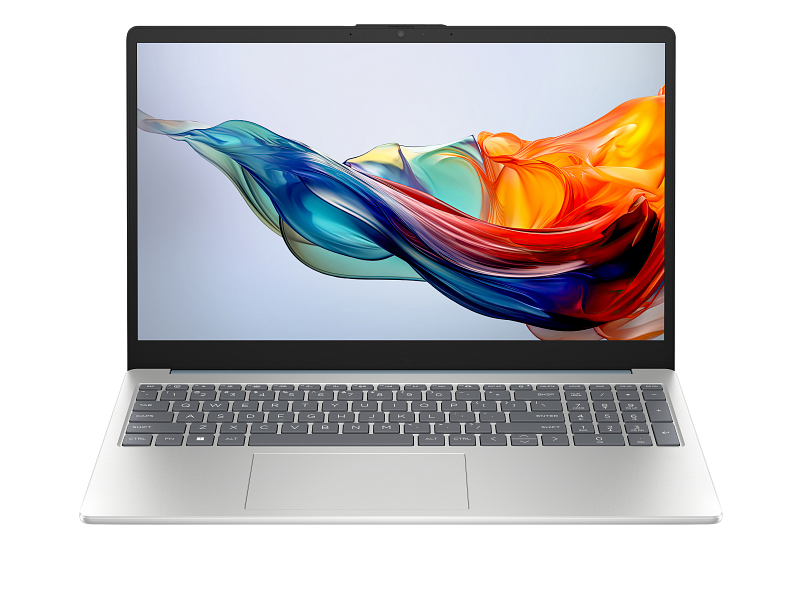
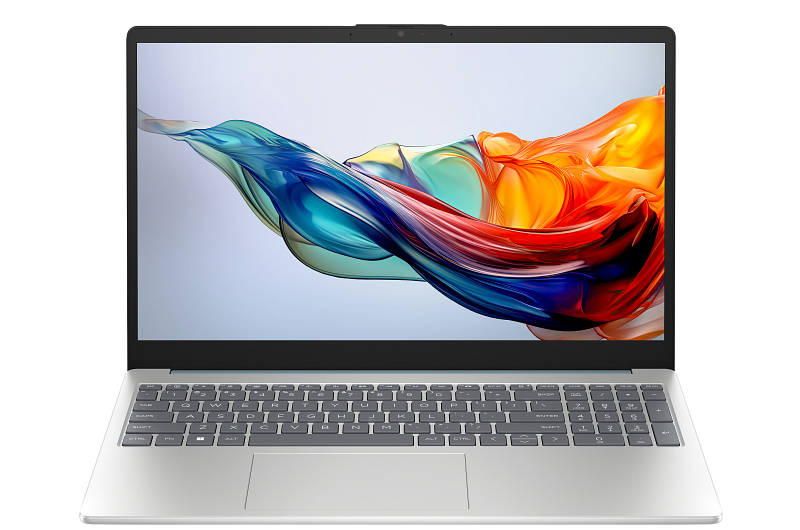
Nueva Pagina Tienda

diff --git a/style-tienda.css b/style-tienda.css
@@ -1,0 +1,215 @@
+.HeaderStyle {
+    background-color: rgba(0, 0, 0, 0.623);
+    width: 100%;
+    height: 90px;
+    border-bottom: 1px black;
+    padding: 1px;
+    padding-right: 15px;
+    margin-top: -8px;
+    margin-left: -8px;
+    box-shadow: 0 0 15px black;
+    position: fixed;
+    display: inline-flex;
+    z-index: 2;
+    border-bottom: 0.1px solid rgba(255, 255, 255, 0.315);
+}
+
+.Blur-Background-Effect {
+    background-color: rgba(0, 0, 0, 0);
+    backdrop-filter: blur(16px);
+    z-index: 1;
+    position: fixed;
+    width: 100%;
+    height: 90px;
+    padding: 1px;
+    padding-right: 15px;
+    margin-top: -8px;
+    margin-left: -8px;
+}
+
+.TitleStyle {
+    color: white;
+    font-family: "Major Mono Display", sans-serif;
+    margin-left: 120px;
+    margin-top: 30px;
+    font-size: 40px;
+    display: inline-flex;
+}
+
+#HRvertical {
+    width: 40px;
+    height: 60px;
+    margin-left: 50px;
+    position: relative;
+    display: inline-flex;
+}
+
+#PAPERstyle {
+    background-color: white;
+    height: 40px;
+    color: black;
+    border-bottom-left-radius: 14px;
+    border-top-left-radius: 14px;
+    border-left: 5px solid white;
+}
+
+.LINKBUTTONstyle {
+    background-color: white;
+    color: black;
+    width: 107px;
+    height: 30px;
+    padding: 10px;
+    border: 1px solid black;
+    outline: 5px solid white;
+    text-align: center;
+    font-size: 25px;
+    font-family: "Zalando Sans Expanded", sans-serif;
+    text-decoration: none;
+    cursor: pointer;
+    margin-top: 22px;
+    margin-left: 50px;
+    padding-left: 22px;
+    transition: ease 0.12s, font-weight 0.26s, outline-width 0.02s;
+    display: inline-flex;
+    scale: calc(0.7);
+}
+
+.LINKBUTTONstyle:hover {
+    outline-width: 11px;
+    outline-style: double;
+    color: white;
+    background-color: black;
+    border-radius: 2px;
+}
+
+.LINKBUTTONstyle:active {
+    background-color: white;
+    color: black;
+    outline-width: 2px;
+}
+
+#body {
+    background-color: #f5f5f5;
+    font-family: Arial, Helvetica, sans-serif;
+    color: black;
+}
+
+#line-style-top {
+    width: 2px;
+    height: 52px;
+    position: absolute;
+    background-color: white;
+    margin-top: 22px;
+    margin-left: 18px;
+}
+
+#icongithub {
+    margin-left: 40px;
+    margin-top: 35px;
+    position: absolute;
+}
+
+.AIRE {
+    width: 100%;
+    height: 83px;
+    padding: 1px;
+    padding-right: 15px;
+    margin-top: -8px;
+    margin-left: -8px;
+}
+
+.title-se-top {
+    font-family: "Cal Sans", sans-serif;
+    letter-spacing: 2px;
+    font-size: 45px;
+    text-align: center;
+    width: 100%;
+    height: 40px;
+    margin-bottom: 40px;
+}
+
+.Box-Producto {
+    background-color: white;
+    width: 50%;
+    height: 940px;
+    margin: 30px;
+    cursor: pointer;
+    transition: all 0.22s ease-in-out;
+}
+
+.Box-Producto:hover {
+    scale: calc(0.98);
+}
+
+.image-producto {
+    background-image: linear-gradient(-52deg, #011f33, #e6e6e6);
+    border-radius: 20px;
+    box-shadow: 0 0 16px rgba(0, 0, 0, 0.425) inset;
+    padding: 20px;
+}
+
+.centralizador-images {
+    margin: 0 auto;
+    width: 610px;
+}
+
+.desc-p-div {
+    font-size: 20px;
+    width: 100%;
+    text-align: center;
+    letter-spacing: 3px;
+    font-family: "Zalando Sans Expanded", sans-serif;
+}
+
+.Reseña-p {
+    font-size: 20px;
+    margin-top: 10px;
+}
+
+.Reseña {
+    display: inline-flex;
+    margin-left: 50px;
+}
+
+.button-comprar-novedades {
+    background-color: #00000000;
+    outline: #0071E3 solid 1px;
+    font-weight: bolder;
+    color: #0071E3;
+    border-radius: 25px;
+    border: none;
+    padding: 8px;
+    cursor: pointer;
+    transition: all ease 0.22s;
+    margin-left: 120px;
+    margin-top: 10px;
+    height: 31px;
+    scale: calc(1.7);
+}
+
+.button-comprar-novedades:hover {
+    background-color: #0071E3;
+    outline: transparent solid 1px;
+    color: white;
+    font-weight: normal;
+}
+
+.button-comprar-novedades:active {
+    background-color: #00000000;
+    outline: #0071E3 solid 1px;
+    color: #0071E3;
+    scale: calc(0.95);
+}
+
+.preci-novedades-div {
+    font-weight: lighter;
+    font-family: "Cal Sans", fantasy;
+    margin-top: 60px;
+    margin-left: 320px;
+}
+
+#display-horizontal-vendidos-div {
+    width: 100%;
+    height: 100%;
+    display: inline-flex;
+}

diff --git a/page-tienda.html b/page-tienda.html
@@ -1,0 +1,138 @@
+<!DOCTYPE html>
+<html>
+    <head>
+        <link href="https://fonts.googleapis.com/css2?family=Major+Mono+Display&display=swap" rel="stylesheet">
+
+        <link href="https://fonts.googleapis.com/css2?family=Zalando+Sans+Expanded:ital,wght@0,200..900;1,200..900&display=swap" rel="stylesheet">
+
+        <link href="https://fonts.googleapis.com/css2?family=Cal+Sans&display=swap" rel="stylesheet">
+
+        <meta charset="UTF-8">
+        <title>Paper Moon - Shop</title>
+        <link rel="stylesheet" href="style-tienda.css">
+        <link rel="icon" type="image/x-icon" href="Images/Logo-PAPERMOON.ico">
+    </head>
+    <body id="body">
+        <div class="Blur-Background-Effect"></div>
+        <header class="HeaderStyle">
+
+            <h2 class="TitleStyle"><a id="PAPERstyle">PAper</a>MOOn</h2> 
+
+            <div id="HRvertical" style="margin-left: 120px;">
+                <img style="margin-left: 9px; margin-top: 38px;" src="Images/detalleTrianguloHR.png" width="20px">
+                <div id="line-style-top"></div>
+            </div>
+
+            <a href="index.html" class="LINKBUTTONstyle">HOME</a>
+
+            <a href="page-tienda.html" class="LINKBUTTONstyle">SHOP</a>
+
+            <a href="https://github.com/MaxPyxel"><img src="Images/GitHub_Logo.png" width="32px" id="icongithub"></a>
+
+            <div id="HRvertical" style="margin-left: 120px;">
+                <img style="margin-left: 9px; margin-top: 38px;" src="Images/detalleTrianguloHR.png" width="20px">
+                <div id="line-style-top"></div>
+            </div>
+
+            <p style="color: #d8d8d856; margin-top: 40px;">Esta Pagina no es real, Es Ficticio, osea que sus productos no son para comprar, solo para visualisar.</p>
+        </header>
+
+        <div class="AIRE"></div>
+
+        <div id="display-horizontal-vendidos-div">
+            <div class="Box-Producto">
+                <div class="centralizador-images">
+                    <img class="image-producto" src="Images/icon-objet-novedades-1.png" width="590px">
+                </div>
+                <h2 class="title-se-top">Laptop Moon Pro</h2>
+                <p class="desc-p-div">El Espacio donde Crece la Creavitidad.</p>
+    
+                <div class="Reseña">
+                    <p class="Reseña-p">Reseñas:</p>
+    
+                    <img src="Images/star.png" width="40px" height="40px">
+                    <img src="Images/star.png" width="40px" height="40px">
+                    <img src="Images/star.png" width="40px" height="40px">
+                    <img src="Images/star.png" width="40px" height="40px">
+                    <img src="Images/star.png" width="40px" height="40px" style="filter: saturate(0%);">
+    
+                </div>
+    
+                <button class="button-comprar-novedades" onclick="alert('El Producto Viene en Camino C:')">Comprar</button>
+    
+                <h1 class="preci-novedades-div">142.990$ o 29.490$/Mes</h1>
+            </div>
+
+            <div class="Box-Producto">
+                <div class="centralizador-images" style="width: 490px;">
+                    <img class="image-producto" src="Images/icon-objet-novedades-2.png" width="490px">
+                </div>
+                <h2 class="title-se-top">Watch Moon X</h2>
+                <p class="desc-p-div">El Reloj de Mano Perfecto para Ejercirtar.</p>
+    
+                <div class="Reseña">
+                    <p class="Reseña-p">Reseñas:</p>
+    
+                    <img src="Images/star.png" width="40px" height="40px">
+                    <img src="Images/star.png" width="40px" height="40px">
+                    <img src="Images/star.png" width="40px" height="40px">
+                    <img src="Images/star.png" width="40px" height="40px">
+                    <img src="Images/star.png" width="40px" height="40px">
+    
+                </div>
+    
+                <button class="button-comprar-novedades" onclick="alert('El Producto Viene en Camino C:')">Comprar</button>
+    
+                <h1 class="preci-novedades-div" style="font-size: 50px; margin-left: 410px;">58.990$</h1>
+            </div>
+        </div>
+
+        <div id="display-horizontal-vendidos-div">
+            <div class="Box-Producto">
+                <div class="centralizador-images">
+                    <img class="image-producto" src="Images/icon-objet-novedades-3.png" width="590px">
+                </div>
+                <h2 class="title-se-top">SemiPRO Pad + Lapiz</h2>
+                <p class="desc-p-div">Donde haya Lapiz y Tablet, Hay Artes Digitales</p>
+    
+                <div class="Reseña">
+                    <p class="Reseña-p">Reseñas:</p>
+    
+                    <img src="Images/star.png" width="40px" height="40px">
+                    <img src="Images/star.png" width="40px" height="40px">
+                    <img src="Images/star.png" width="40px" height="40px">
+                    <img src="Images/star.png" width="40px" height="40px" style="filter: saturate(0%);">
+                    <img src="Images/star.png" width="40px" height="40px" style="filter: saturate(0%);">
+    
+                </div>
+    
+                <button class="button-comprar-novedades" onclick="alert('El Producto Viene en Camino C:')">Comprar</button>
+    
+                <h1 class="preci-novedades-div">42.990$ o 9.490$/Mes</h1>
+            </div>
+
+            <div class="Box-Producto">
+                <div class="centralizador-images">
+                    <img class="image-producto" src="Images/objet-3-images.png" width="590px">
+                </div>
+                <h2 class="title-se-top">TV 5K ULTRA</h2>
+                <p class="desc-p-div">Pantallas hechas para Todo, Es un Cine en tu hogar.</p>
+    
+                <div class="Reseña">
+                    <p class="Reseña-p">Reseñas:</p>
+    
+                    <img src="Images/star.png" width="40px" height="40px">
+                    <img src="Images/star.png" width="40px" height="40px">
+                    <img src="Images/star.png" width="40px" height="40px">
+                    <img src="Images/star.png" width="40px" height="40px">
+                    <img src="Images/star.png" width="40px" height="40px" style="filter: saturate(0%);">
+    
+                </div>
+    
+                <button class="button-comprar-novedades" onclick="alert('El Producto Viene en Camino C:')">Comprar</button>
+    
+                <h1 class="preci-novedades-div">96.990$ o 35.490$/Mes</h1>
+            </div>
+        </div>
+    </body>
+</html>

diff --git a/index.html b/index.html
@@ -43,6 +43,8 @@
 
                 <a href="index.html" class="LINKBUTTONstyle">HOME</a>
 
+                <a href="page-tienda.html" class="LINKBUTTONstyle">SHOP</a>
+
                 <a href="https://github.com/MaxPyxel"><img src="Images/GitHub_Logo.png" width="32px" id="icongithub"></a>
 
                 <div id="HRvertical" style="margin-left: 120px;">

diff --git a/styles.css b/styles.css
@@ -399,7 +399,7 @@
 
 #icongithub {
     margin-left: 40px;
-    margin-top: 35px;
+    margin-top: 34px;
     position: absolute;
 }
 